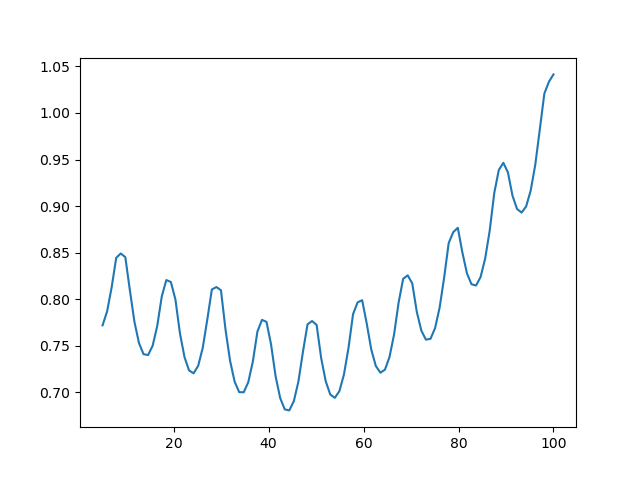
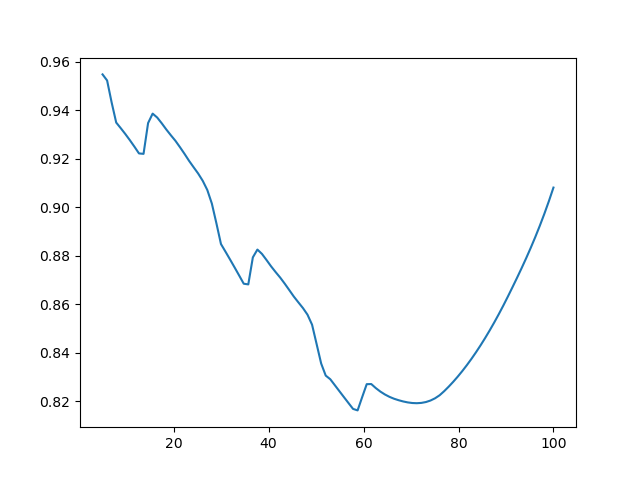
splitting up e

diff --git a/multistack/main.py b/multistack/main.py
@@ -14,29 +14,43 @@ def nostdout():
     sys.stdout = save_stdout
 
 def main():
-    distances = np.linspace(5, 100, 100)
-    total_fluxes = []
+    distances = np.linspace(10, 100, 100)
+    total_fluxes_real = []
+    total_fluxes_imag = []
     radiative_fluxes = []
     for dist in distances:
         
         print(dist)
         
         with nostdout():
-            total = np.abs(multifunction.multi(532, dist, ""))
+            num = multifunction.multi(532, dist, "")
+            total = np.power(np.real(num), 2)
+            total_im = np.power(np.imag(num), 2)
             
-        total_fluxes.append(total)
+        total_fluxes_real.append(total)
+        total_fluxes_imag.append(total_im)
     
-    baseline_total= multifunction.multi(532, 0, "", True)
+    baseline_total = multifunction.multi(532, 0, "", True)
     
-    total_fluxes = total_fluxes / np.abs(baseline_total)
+    # total_fluxes_real = total_fluxes_real / np.real(baseline_total)
+    # total_fluxes_imag = total_fluxes_imag / np.imag(baseline_total)
     
     # np.save("baseline_total_rad.npy", [baseline_total, baseline_rad])
     
-    np.save("total_fluxes.npy", total_fluxes)
+    np.save("total_e_real.npy", total_fluxes_real)
+    np.save("total_e_imag.npy", total_fluxes_imag)
     
     fig, ax = plt.subplots()
-    ax.plot(distances, total_fluxes)
-    fig.savefig("single_eplot.png")
+    ax.plot(distances, total_fluxes_real)
+    ax.axhline(np.power(np.real(baseline_total), 2))
+    fig.savefig("single_eplot_real.png")
+
+    fig, ax = plt.subplots()
+    ax.plot(distances, total_fluxes_imag)
+    ax.axhline(np.power(np.imag(baseline_total), 2))
+    fig.savefig("single_eplot_imag.png")
+
+    np.save("baseline_total.npy", [baseline_total])
     
     # nonradiative_enhancement = total_fluxes - radiative_fluxes / (baseline_total - baseline_rad)
     # fig, ax = plt.subplots()

diff --git a/multistack/multifunction.py b/multistack/multifunction.py
@@ -72,7 +72,7 @@ def multi(wvl, source_dist, filename, emptyspace = False):
 
     geometry = []
     if not emptyspace:
-        for i in range(0, 3, 1):
+        for i in range(0, 2, 1):
             geometry.extend(createLayer(0, i))
 
     # geometry = []
@@ -91,7 +91,7 @@ def multi(wvl, source_dist, filename, emptyspace = False):
     pml_layers = [mp.PML(pml_thickness)]
 
 
-    resolution = 1
+    resolution = 0.1
 
     sim = mp.Simulation(
         cell_size=cell,
@@ -102,7 +102,7 @@ def multi(wvl, source_dist, filename, emptyspace = False):
         Courant=0.2
     )
 
-    dna_length = 2.1#7.3
+    dna_length = 7.3
 
     #Find flux around emitter
     total_flux = sim.add_flux(freq, 0, 1,
